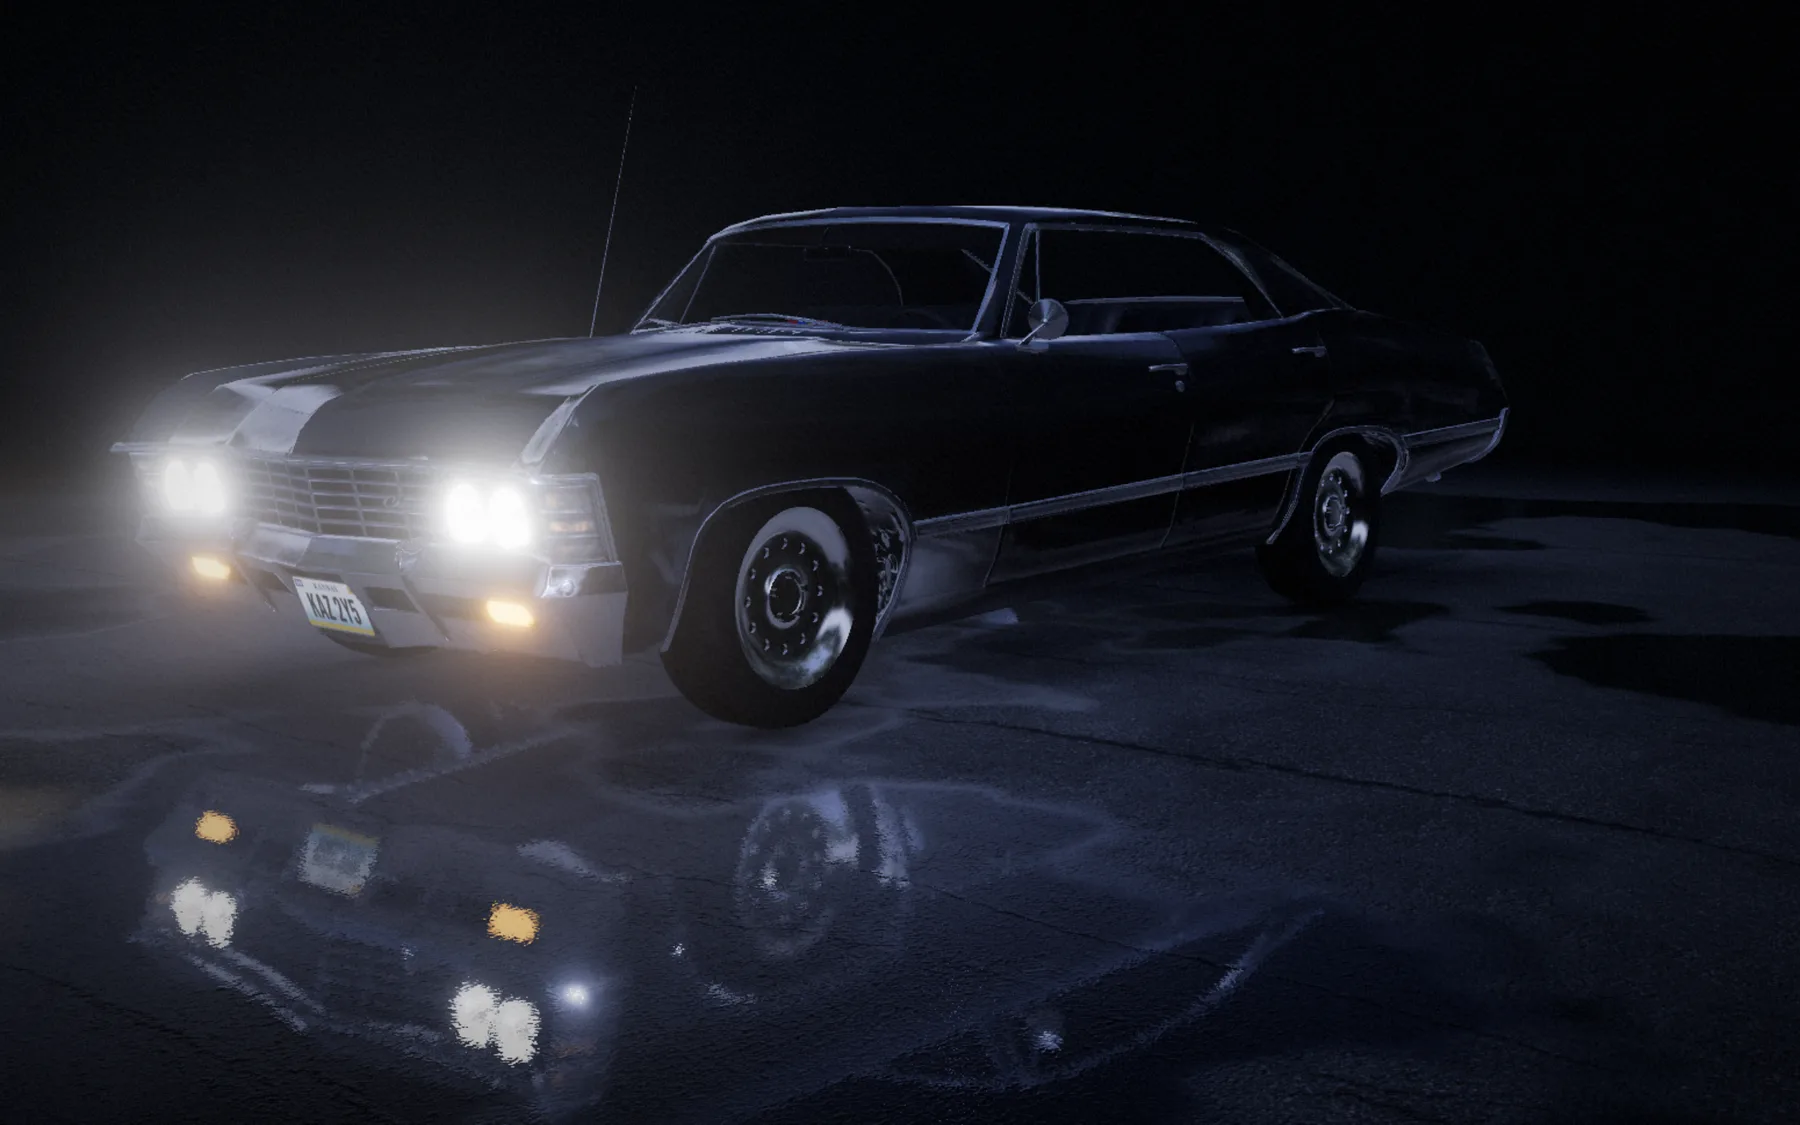
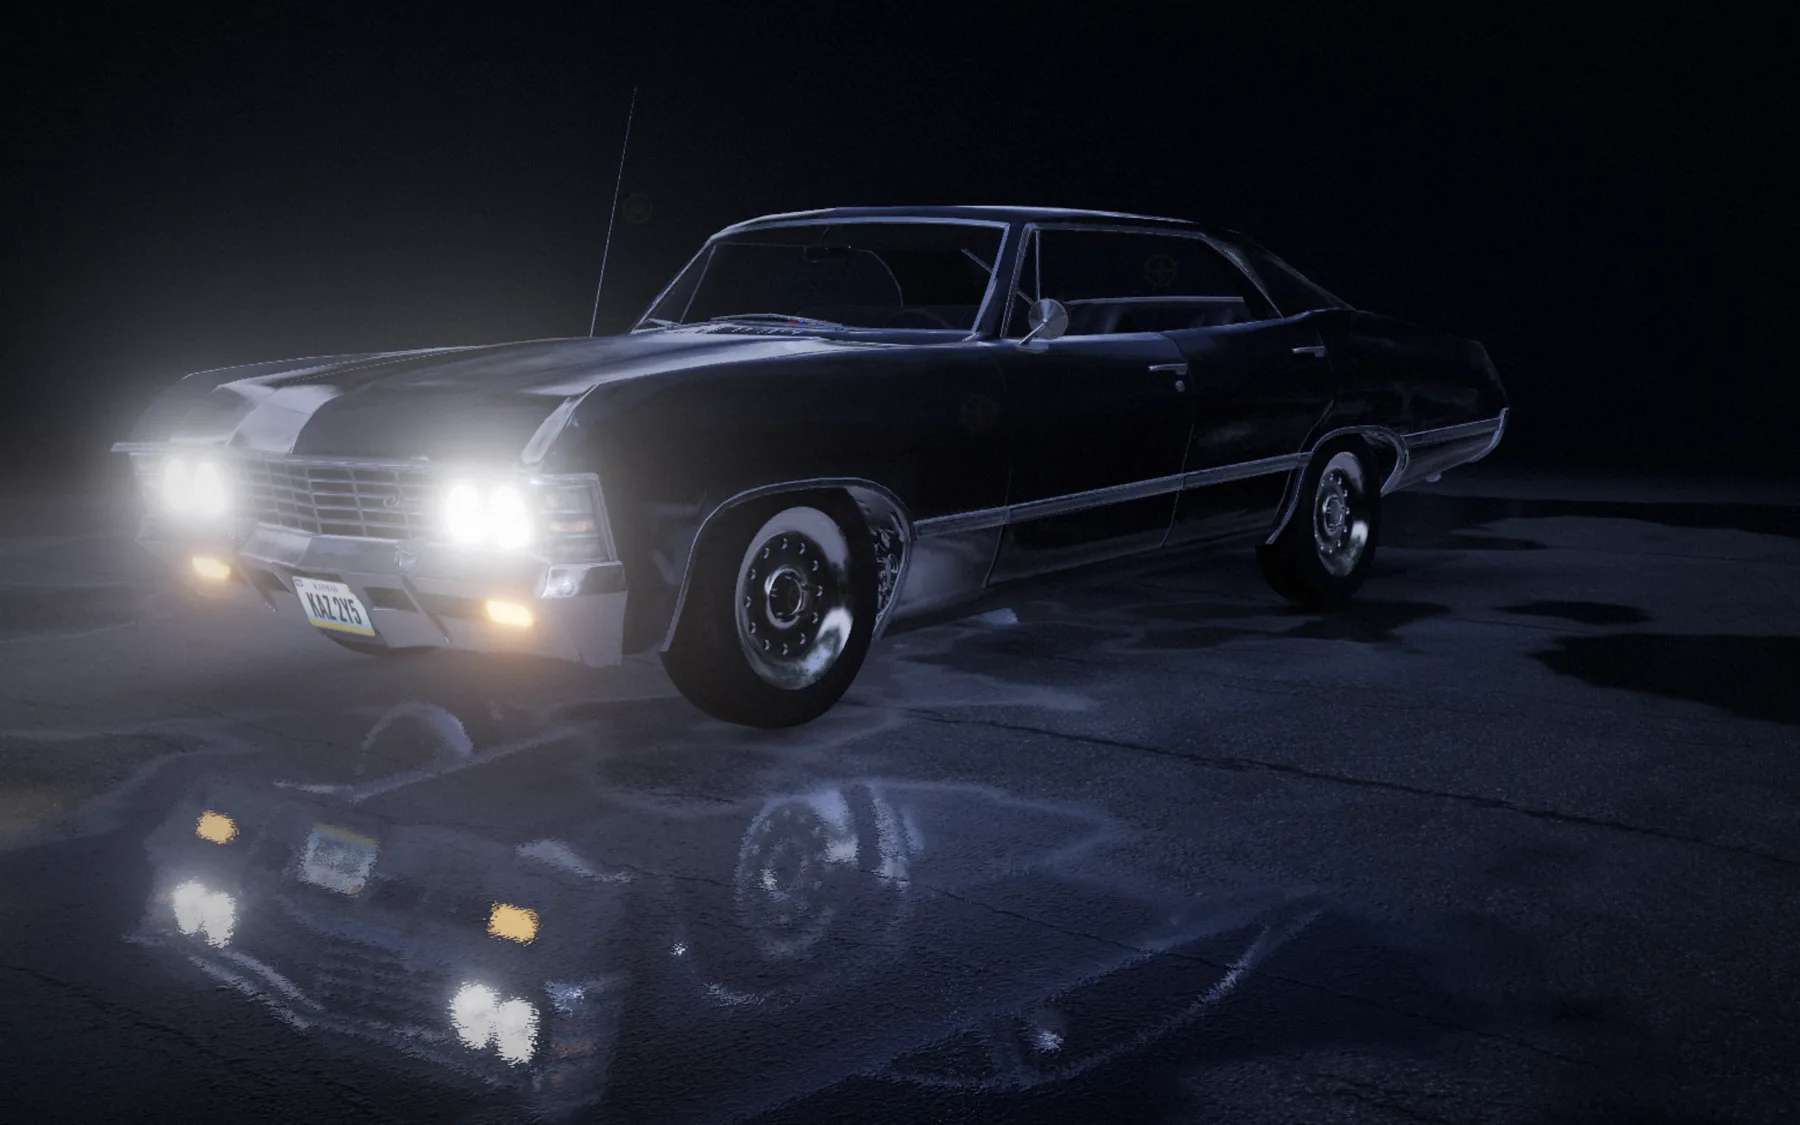
A little more moonlight
Moon preset: moonlight 1.35 -> 1.7, sky fill 0.35 -> 0.5, exposure
1.15 -> 1.25, reflections 1.4 -> 1.6, a slightly lighter backdrop and sky
glow. About 16% brighter on the car; About page Moon images retaken.

Claude-Session: https://claude.ai/code/session_01PpqPeuBPhHA5M9CaZn3GJh

Changed region(s): [[0.0622, 0.7467, 0.1556, 0.8711], [0.2178, 0.84, 0.3422, 0.9333]]

diff --git a/src/scene/lighting.ts b/src/scene/lighting.ts
@@ -37,17 +37,17 @@ export const PRESETS: Record<PresetName, Preset> = {
   moon: {
     label: 'Moon',
     hdri: 'hdri/moon.hdr',
-    envIntensity: 1.4,
+    envIntensity: 1.6,
     envRotation: deg(0),
     envClamp: 6,
     envSat: 0.3,
     envTint: 0xc4d0ff,
-    skyBand: 0.6,
-    sun: { azimuth: deg(-36), elevation: deg(40), color: 0xb9c8ff, intensity: 1.35 },
-    hemi: { sky: 0x3a4866, ground: 0x0b0b0d, intensity: 0.35 },
-    exposure: 1.15,
-    background: 0x0a0e15,
-    sky: { top: 0x020306, glow: 0x3a4a70, glowStrength: 0.35 },
+    skyBand: 0.65,
+    sun: { azimuth: deg(-36), elevation: deg(40), color: 0xb9c8ff, intensity: 1.7 },
+    hemi: { sky: 0x3a4866, ground: 0x0b0b0d, intensity: 0.5 },
+    exposure: 1.25,
+    background: 0x0c111a,
+    sky: { top: 0x030408, glow: 0x3a4a70, glowStrength: 0.42 },
     fog: { color: 0x07090d, density: 0.035 },
     haze: 1,
     bloom: 0.5,
